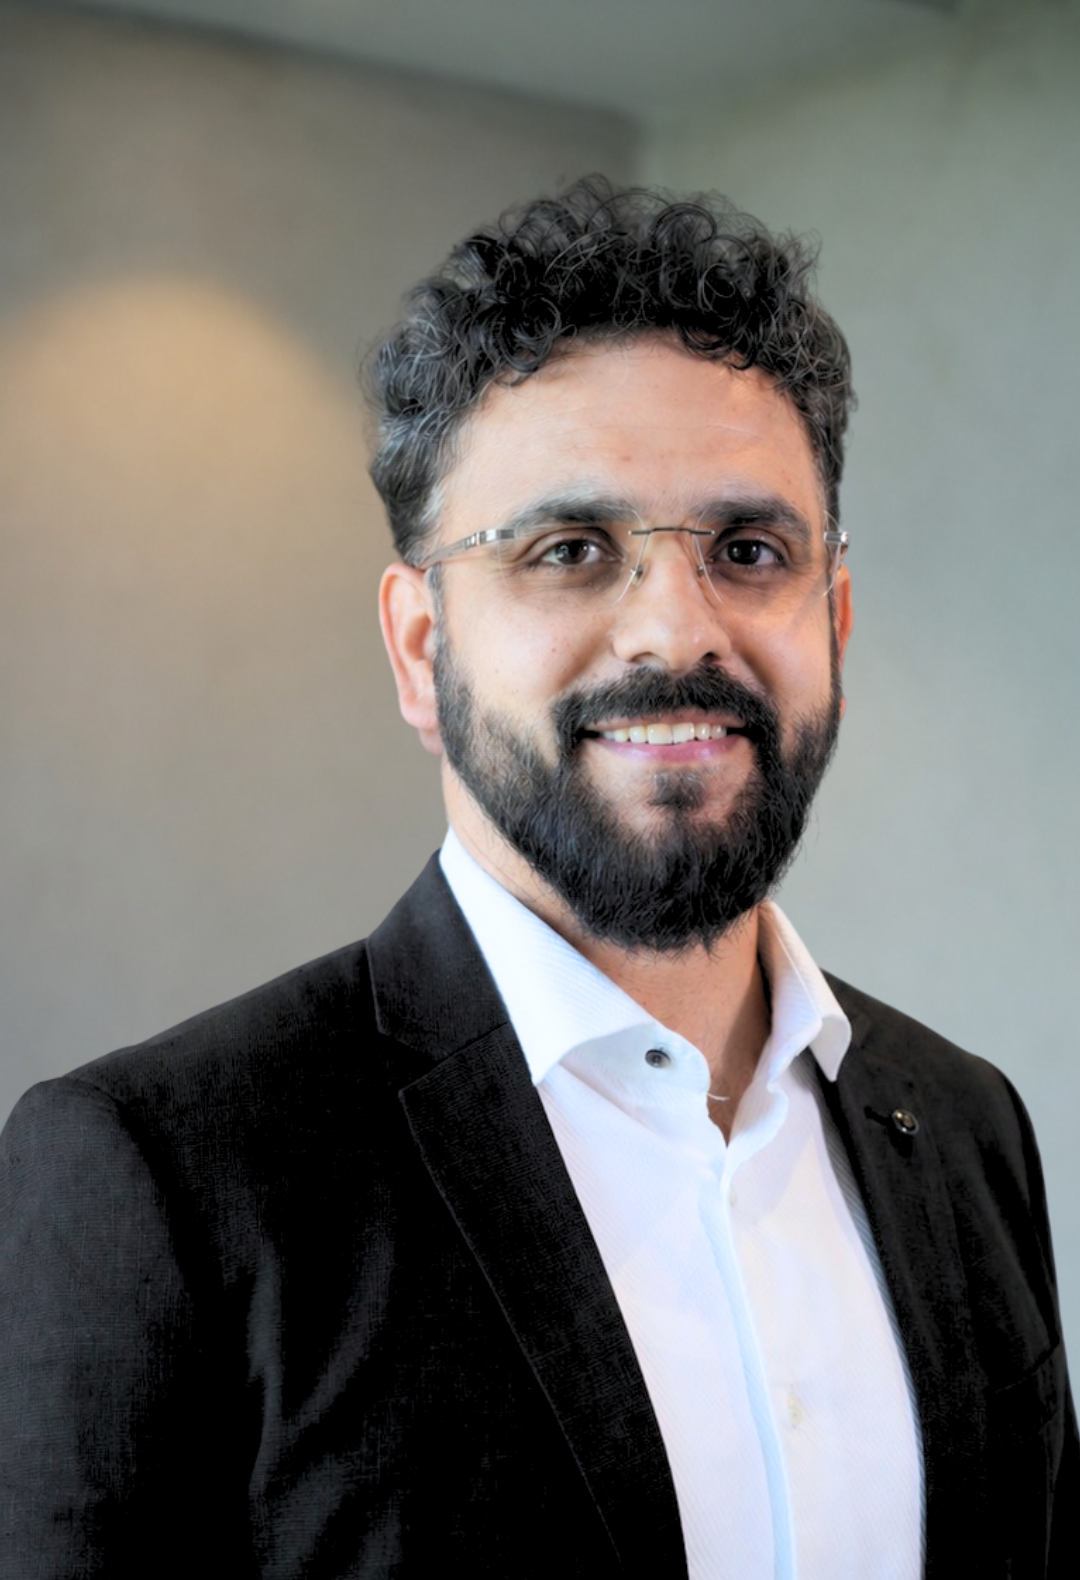
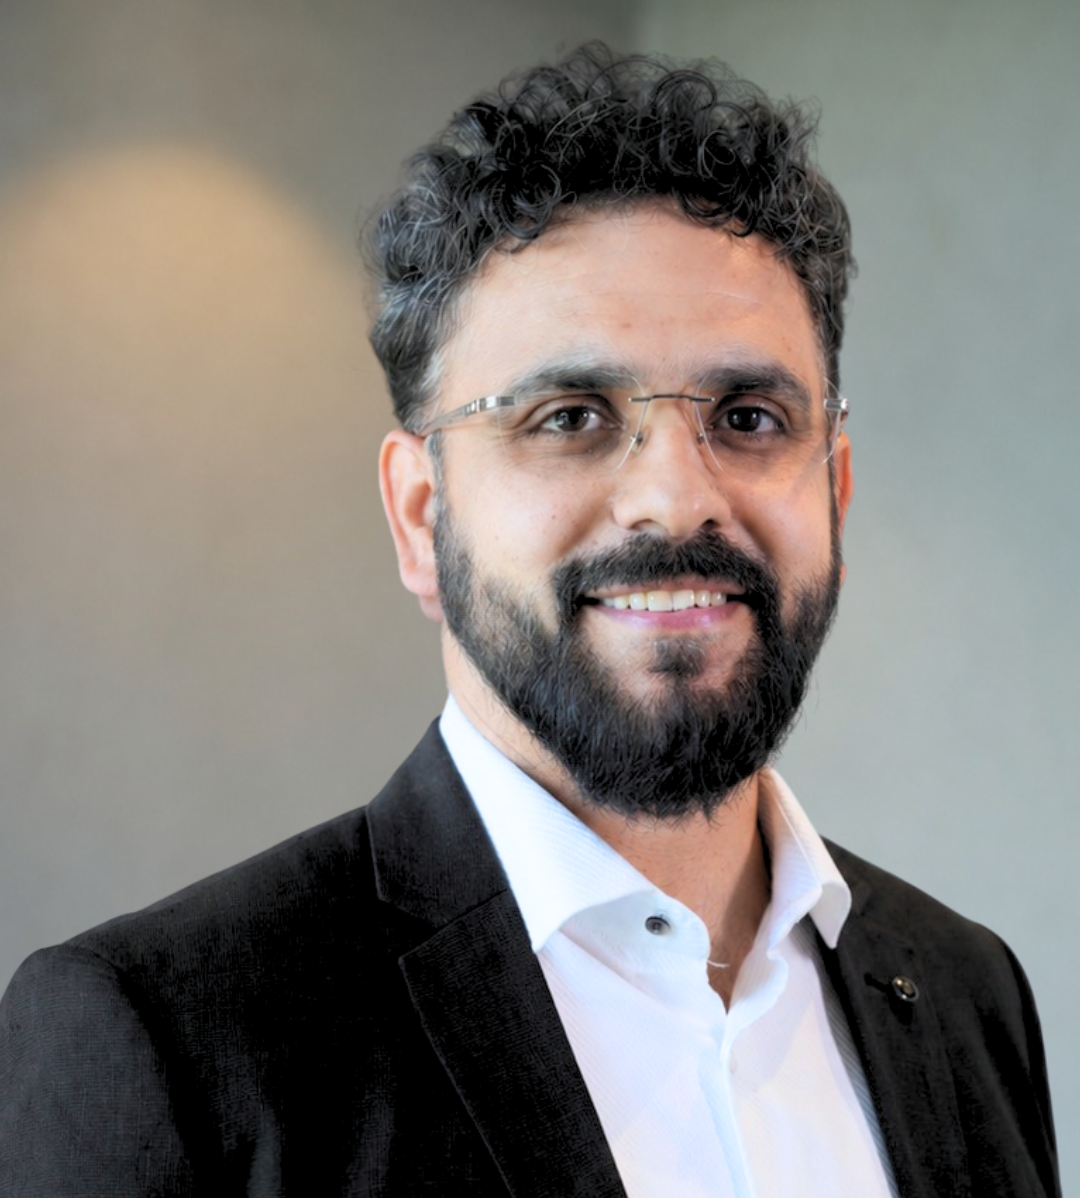
homepage

diff --git a/v3/index.html b/v3/index.html
@@ -256,7 +256,7 @@
                         confidence.
                     </p>
                     <p class="about-v2__lead about-v2__lead--light">
-                        Our expert team of dermatologists combines advanced medical technology with holistic approaches,
+                        Our expert team of aesthetic physicians combines advanced medical technology with holistic approaches,
                         ensuring every treatment is tailored to your unique skin journey. Step into our sanctuary and
                         experience the perfect blend of luxury, science, and care.
                     </p>
@@ -471,9 +471,9 @@
                         <div class="founder-card__content">
                             <span class="founder-card__meta">Founder · Medical Direction</span>
                             <h3 class="founder-card__name">Dr. Aarushi Passi Bhandari</h3>
-                            <p class="founder-card__role">Aesthetic Physician · MD Dermatology</p>
+                            <p class="founder-card__role">Aesthetic Physician</p>
                             <!-- <p class="founder-card__bio">
-                                A dermatologist with global exposure and an obsessive commitment to clinical excellence.
+                                An aesthetic physician with global exposure and an obsessive commitment to clinical excellence.
                                 Dr. Aarushi leads every protocol with precision, safety, and a science-first approach to
                                 aesthetic medicine that feels calm, deliberate, and deeply personal.
                             </p> -->
@@ -1080,36 +1080,19 @@
         <section class="trainer-v3-section" id="training">
             <div class="trainer-v3-container">
                 <div class="trainer-v3-content">
-                    <div class="trainer-v3-eyebrow-wrap">
-                        <span class="trainer-v3-eyebrow">Fellow-Doctors &amp; Training</span>
-                        <div class="trainer-v3-line"></div>
-                    </div>
-                    
-                    <h2 class="trainer-v3-title">A senior trainer the industry learns from.</h2>
-                    
-                    <div class="trainer-v3-separator"></div>
-                    
-                    <p class="trainer-v3-desc">
-                        Dr. Aarushi is one of India's leading medical educators in aesthetic and regenerative dermatology — invited as a faculty member, masterclass host and senior trainer at industry workshops and fellowship programmes across the country.
-                    </p>
-                    
-                    <div class="trainer-v3-quote">
-                        <span class="trainer-v3-quote-mark">"</span>
-                        <div class="trainer-v3-quote-text">
-                            What I teach my fellow doctors is what I practise at D'Zen — the discipline of restraint, the priority of safety, and the courage to keep learning.
+                    <div class="section-header text-center mb-4 mb-lg-5">
+                        <span class="section-subtitle">FELLOW-DOCTORS &amp; TRAINING</span>
+                        <div class="nemonic-separator">
+                            <div class="nemonic-line"></div>
+                            <img src="nemonic.png" alt="nemonic" class="nemonic-icon" />
+                            <div class="nemonic-line"></div>
                         </div>
+                        <h2 class="section-title">A senior trainer the industry <span class="scribble">learns</span> from.</h2>
+                        <p class="section-desc mx-auto" style="max-width: 760px; color: #5C4A3A;">
+                            Dr. Aarushi is one of India's leading medical educators in aesthetic and regenerative medicine — invited as a faculty member, masterclass host and senior trainer at industry workshops and fellowship programmes across the country.
+                        </p>
                     </div>
-                    
-                    <div class="dz-cta-wrap" style="justify-content: flex-start;">
-                        <a href="../newthree.html#enquire" class="dz-cta">
-                            <span>Enquire About Training</span>
-                            <img src="nemonic.png" class="btn-icon" style="width: 14px; height: 14px; object-fit: contain;" alt="icon" />
-                        </a>
-                    </div>
-                    
-                </div>
-                
-                <div class="trainer-v3-image-col">
+
                     <!-- Collage Grid: 4 Premium Images -->
                     <div class="trainer-v3-collage">
                         <img src="../images/training-1.webp" alt="Clinic Interior" loading="lazy" />
@@ -1117,6 +1100,21 @@
                         <img src="../images/training-3.webp" alt="Advanced Technology" loading="lazy" />
                         <img src="../images/training-4.webp" alt="Intentional Care" loading="lazy" />
                     </div>
+                    
+                    <div class="trainer-v3-quote mx-auto" style="max-width: 760px; border-left: none; padding-left: 0; text-align: center;">
+                        <span class="trainer-v3-quote-mark" style="position: static; font-size: 48px; line-height: 1; display: block; margin-bottom: -10px;">"</span>
+                        <div class="trainer-v3-quote-text">
+                            What I teach my fellow doctors is what I practise at D'Zen — the discipline of restraint, the priority of safety, and the courage to keep learning.
+                        </div>
+                    </div>
+                    
+                    <div class="dz-cta-wrap mt-4" style="justify-content: center;">
+                        <a href="../newthree.html#enquire" class="dz-cta">
+                            <span>Enquire About Training</span>
+                            <img src="nemonic.png" class="btn-icon" style="width: 14px; height: 14px; object-fit: contain;" alt="icon" />
+                        </a>
+                    </div>
+                    
                 </div>
             </div>
 
@@ -1743,7 +1741,6 @@
     <section class="embossed-brand-section">
         <div class="embossed-texture"></div>
         <a href="../newthree.html#book" class="embossed-book-btn">
-            <img src="nemonic.png" alt="icon" class="btn-icon">
             BOOK NOW
             <img src="nemonic.png" alt="icon" class="btn-icon">
         </a>

diff --git a/v3/styles.css b/v3/styles.css
@@ -856,7 +856,7 @@ body {
     display: flex;
     justify-content: center;
     align-items: center;
-    background: linear-gradient(35deg, #2f1810 0%, #8C4A2E 60%, #8a5815 85%, #8a6017 100%);
+    background: linear-gradient(135deg, #4b2b20 0%, #8b4513 100%);
     isolation: isolate;
     overflow: hidden;
 }
@@ -3823,12 +3823,12 @@ body {
 
 /* Primary button (Book Now) */
 .bottom-action-btn--primary {
-    background: #4B2B20;
+    background: linear-gradient(135deg, #4b2b20 0%, #8b4513 100%);
     color: #ffffff;
 }
 
 .bottom-action-btn--primary:hover {
-    background: #3a2018;
+    background: linear-gradient(170deg, var(--deep-brown, #4b2b20) 0%, #331d15 100%);
     color: #ffffff;
 }
 
@@ -4158,12 +4158,13 @@ body {
 
 .footer-logo-text {
     font-family: var(--serif, "Playfair Display", Georgia, serif);
-    font-size: 2.4rem;
+    font-size: clamp(1.8rem, 7vw, 2.4rem);
     font-weight: 400;
     color: #2B1A12;
     letter-spacing: 0.1em;
     margin-bottom: 24px;
     text-transform: uppercase;
+    white-space: nowrap;
 }
 
 .footer-tagline {
@@ -5217,7 +5218,7 @@ html body .footer-cta-card .footer-cta-sub {
 
 .embossed-title {
     font-family: var(--serif, serif);
-    font-size: clamp(60px, 15vw, 180px);
+    font-size: clamp(32px, 11vw, 180px);
     font-weight: 300;
     line-height: 1;
     margin: 0;
@@ -5225,6 +5226,7 @@ html body .footer-cta-card .footer-cta-sub {
     text-shadow:
         1px 1px 2px rgba(255, 255, 255, 0.1),
         -1px -1px 2px rgba(0, 0, 0, 0.4);
+    white-space: nowrap;
 }
 
 /* =========================================================
@@ -5251,8 +5253,7 @@ html body .footer-cta-card .footer-cta-sub {
 }
 
 .trainer-v3-content {
-    flex: 1 1 50%;
-    padding-right: 40px;
+    flex: 1 1 100%;
 }
 
 .trainer-v3-image-col {

diff --git a/v3/about.html b/v3/about.html
@@ -6,7 +6,7 @@
     <meta name="viewport" content="width=device-width, initial-scale=1, viewport-fit=cover" />
     <title>About D'Zen Derma — Where Science Meets the Art of Skin</title>
     <meta name="description"
-        content="Meet D'Zen Derma — a premium aesthetic dermatology & wellness clinic blending science-led skin rejuvenation, regenerative aesthetics and holistic wellness, led by expert dermatologists." />
+        content="Meet D'Zen Derma — a premium aesthetic dermatology & wellness clinic blending science-led skin rejuvenation, regenerative aesthetics and holistic wellness, led by expert aesthetic physicians." />
 
     <!-- Google Fonts (same as home) -->
     <link rel="preconnect" href="https://fonts.googleapis.com" />
@@ -269,9 +269,9 @@
                             <div class="nemonic-line"></div>
                         </div>
                         <h2 class="ab-heading">Dr. Aarushi Passi <em>Bhandari</em></h2>
-                        <p class="ab-visionary__role">Founder · Aesthetic Physician · MD Dermatology</p>
+                        <p class="ab-visionary__role">Founder · Aesthetic Physician</p>
                         <p class="ab-lead">
-                            A dermatologist with global exposure and an obsessive commitment to clinical excellence.
+                            An aesthetic physician with global exposure and an obsessive commitment to clinical excellence.
                             Dr. Aarushi leads every protocol with precision, safety and a science-first approach to
                             aesthetic medicine that feels calm, deliberate and deeply personal.
                         </p>

diff --git a/v3/our-philosophy.html b/v3/our-philosophy.html
@@ -6,7 +6,7 @@
     <meta name="viewport" content="width=device-width, initial-scale=1, viewport-fit=cover" />
     <title>About D'Zen Derma — Where Science Meets the Art of Skin</title>
     <meta name="description"
-        content="Meet D'Zen Derma — a premium aesthetic dermatology & wellness clinic blending science-led skin rejuvenation, regenerative aesthetics and holistic wellness, led by expert dermatologists." />
+        content="Meet D'Zen Derma — a premium aesthetic dermatology & wellness clinic blending science-led skin rejuvenation, regenerative aesthetics and holistic wellness, led by expert aesthetic physicians." />
 
     <!-- Google Fonts (same as home) -->
     <link rel="preconnect" href="https://fonts.googleapis.com" />
@@ -1491,7 +1491,6 @@
     <section class="embossed-brand-section">
         <div class="embossed-texture"></div>
         <a href="../newthree.html#book" class="embossed-book-btn">
-            <img src="nemonic.png" alt="icon" class="btn-icon">
             BOOK NOW
             <img src="nemonic.png" alt="icon" class="btn-icon">
         </a>

diff --git a/v3/about-clinic.html b/v3/about-clinic.html
@@ -1077,7 +1077,6 @@
     <section class="embossed-brand-section" style="padding: 50px 0px;">
         <div class="embossed-texture"></div>
         <a href="../newthree.html#book" class="embossed-book-btn">
-            <img src="nemonic.png" alt="icon" class="btn-icon">
             BOOK NOW
             <img src="nemonic.png" alt="icon" class="btn-icon">
         </a>

diff --git a/v3/contact.html b/v3/contact.html
@@ -371,7 +371,6 @@
     <section class="embossed-brand-section" style="padding: 50px 0px;">
         <div class="embossed-texture"></div>
         <a href="../newthree.html#book" class="embossed-book-btn">
-            <img src="nemonic.png" alt="icon" class="btn-icon">
             BOOK NOW
             <img src="nemonic.png" alt="icon" class="btn-icon">
         </a>
